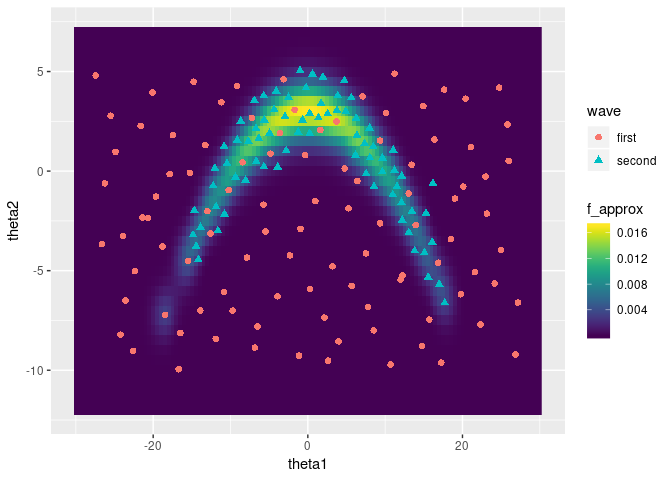
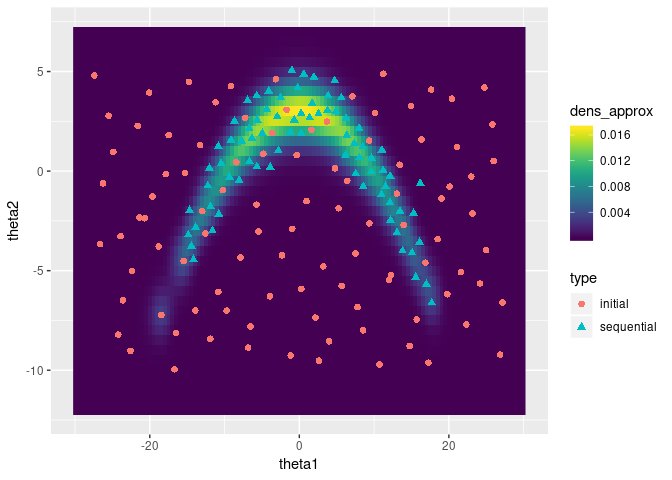
renamed some variables

diff --git a/README.md b/README.md
@@ -5,19 +5,19 @@
 This R package implements the design of experiments-based interpolation
 technique (DoIt, Joseph 2012) for approximate Bayesian computations. 
 
-The method uses evaluations of the unnormalised posterior density at a
-space-filling design of parameter values. Normalisation of the posterior is
-achieved by approximating the target density by a weighted sum of Gaussian
-kernels centered on the design points. 
+The method uses evaluations of an unnormalised density at a space-filling
+design of parameter values. Normalisation is achieved by approximating the
+target density by a weighted sum of Gaussian kernels centered on the design
+points. 
 
-DoIt approximates the joint posterior, marginal posteriors, posterior
-expecations and posterior variances. The package contains functions to
+DoIt approximates the joint density, marginal densities, as well as expecations
+and variances of the target density. The package contains functions to
 optimally choose additional design points, and to calculate the optimal kernel
 with by cross validation.
 
 ![Example plot of 2d DoIt approximation](fig/doit-2d.png)
 
-_Figure: DoIt approximation of a complicated 2-dimensional posterior in 2 waves. See `vignette('doit-2d')` for details._
+_Figure: DoIt approximation of a complicated 2-dimensional density in 2 waves. See `vignette('doit-2d')` for details._
 
 ## Installation
 
@@ -42,17 +42,15 @@ vignette('doit-2d') # 2d example from the Joseph (2012) paper
 **A Note on Nonnegative DoIt Approximation**, Joseph, 2012, Technometrics, [10.1080/00401706.2012.759154](http://dx.doi.org/10.1080/00401706.2012.759154)
 
 
-
 ## Todo
 
-- test that `doit_marginal()` behaves as expected with different settings for
-  `theta_eval`
 - add @seealso tags
-- add links to roxygen blocks (had/r-pkgs/man)
-- add example data
+- add links to mentioned functions in roxygen blocks (had/r-pkgs/man)
 - add argument `near` to specify starting point in `doit_propose_new`
-- make `GGfun` more efficient by accounting for symmetry
 - in `doit_fit` and `doit_update` check for duplicate design points
 - improve efficiency of `doit_estimate_w`
+- make `GGfun` more efficient by accounting for symmetry
+- test that `doit_marginal()` behaves as expected with different settings for
+  `theta_eval`
 
 
